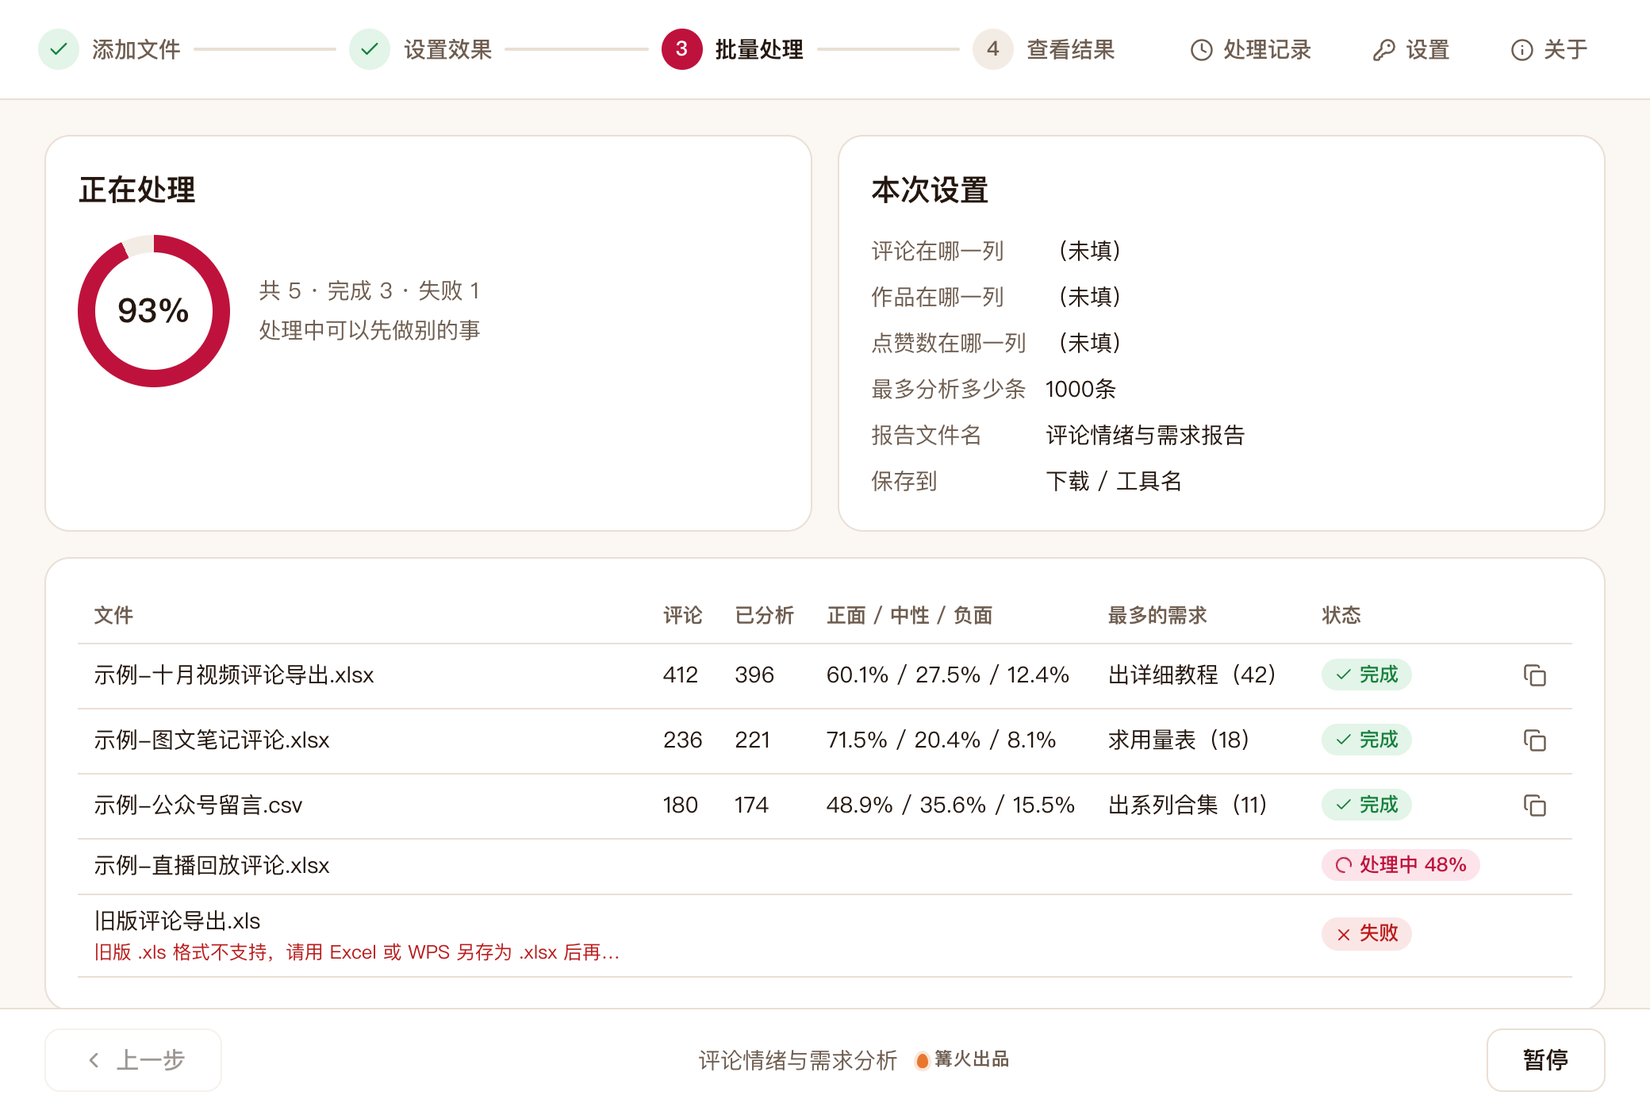
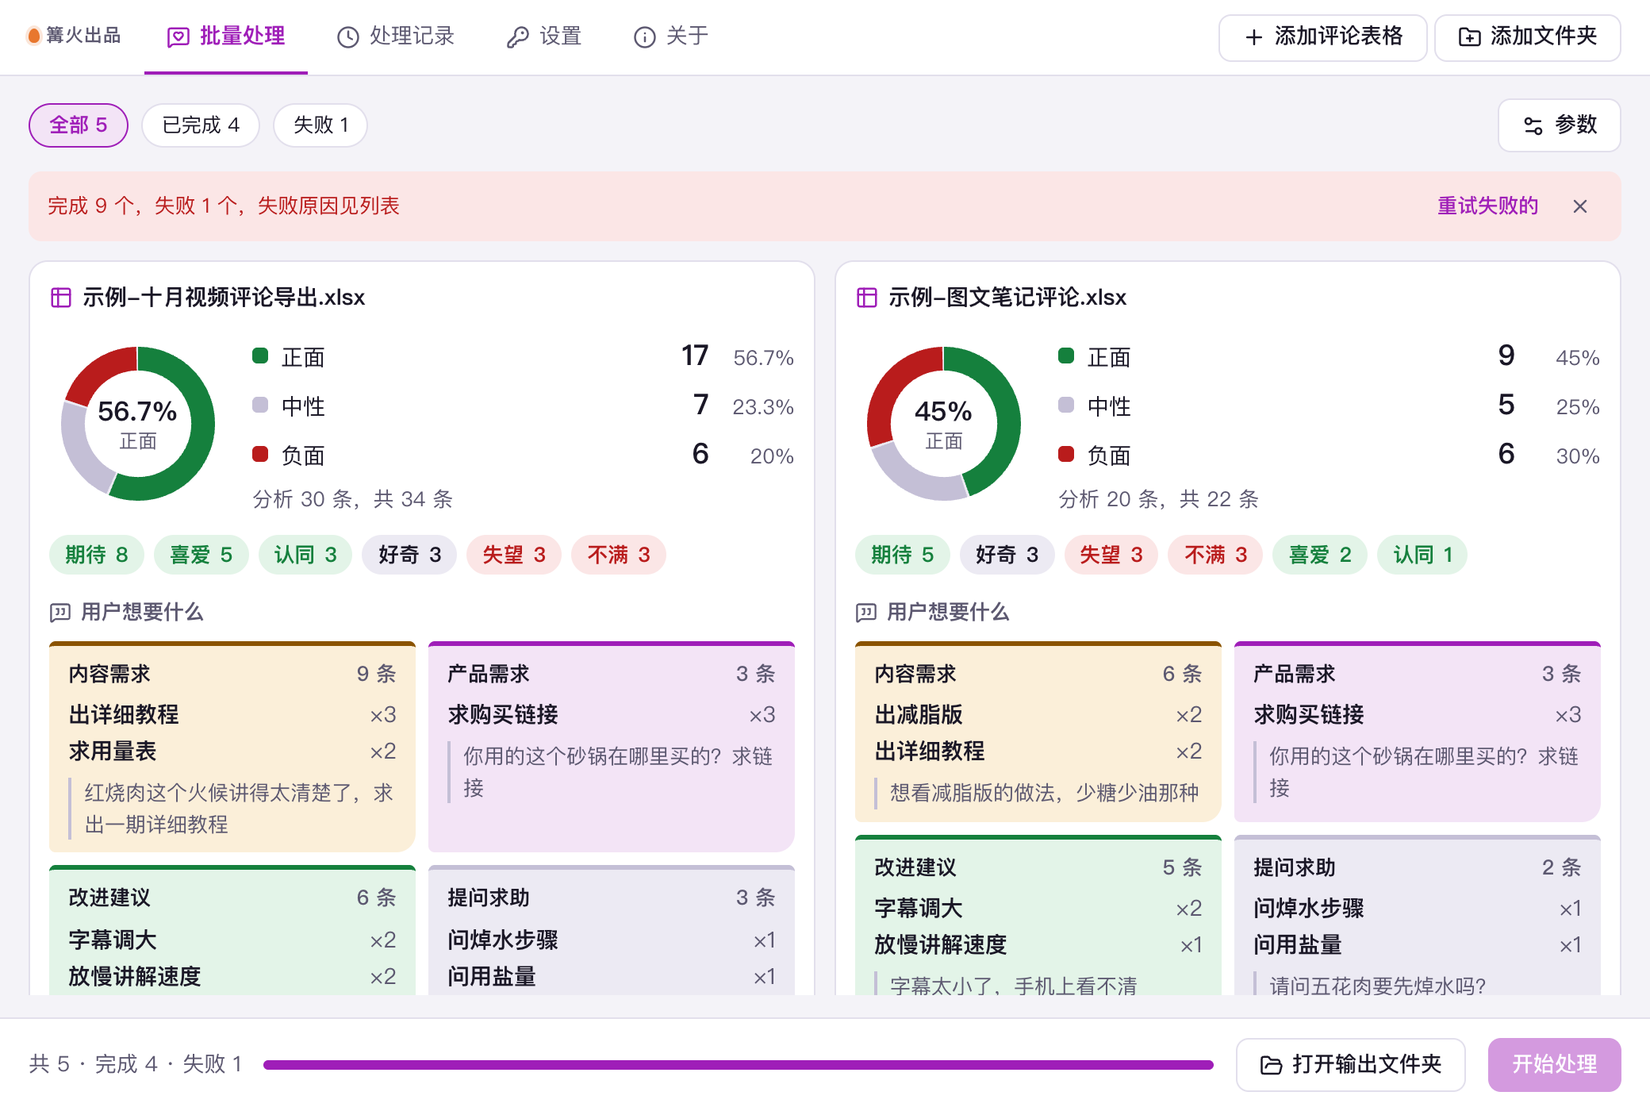
打磨 0.2.0：情绪环与需求便利贴卡片、新空状态、顶部标签卡片布局

diff --git a/src/tool/preview.ts b/src/tool/preview.ts
@@ -1,27 +1,85 @@
 // 截图与预览用的示例数据（不会进入正式运行），内容均为示例
 import type { Row } from '../kit/runner';
+import { pct, summarize, type Detail, type Sentiment } from './core';
+import type { FileData } from './index';
 
-const text1 = `412 条评论，分析 396 条，调用大模型 15 次
-情绪：正面 238（60.1%）、中性 109（27.5%）、负面 49（12.4%）
-主要情绪：喜爱 121、期待 74、认同 63、不满 31
-高频需求：出详细教程（42）、求用量表（27）、字幕调大（19）、出减脂版（15）、求购买链接（12）`;
+// [评论, 点赞, 情绪倾向, 细分情绪, 需求类型, 需求要点]
+type Seed = [string, number, Sentiment, string, string, string];
+const SEEDS: Seed[] = [
+  ['红烧肉这个火候讲得太清楚了，求出一期详细教程', 328, '正面', '期待', '内容需求', '出详细教程'],
+  ['能不能把每一步的用量都做成表格发出来', 241, '正面', '期待', '内容需求', '求用量表'],
+  ['已经照着做了三次，家里人都说好吃', 190, '正面', '喜爱', '无', ''],
+  ['想看减脂版的做法，少糖少油那种', 176, '正面', '期待', '内容需求', '出减脂版'],
+  ['你用的这个砂锅在哪里买的？求链接', 152, '中性', '好奇', '产品需求', '求购买链接'],
+  ['字幕太小了，手机上看不清', 133, '负面', '不满', '改进建议', '字幕调大'],
+  ['步骤讲得太快，暂停好几次才跟上', 118, '负面', '失望', '改进建议', '放慢讲解速度'],
+  ['博主的刀工真好，看着就解压', 97, '正面', '喜爱', '无', ''],
+  ['出一期系列合集吧，每周一道家常菜', 92, '正面', '期待', '内容需求', '出系列合集'],
+  ['请问五花肉要先焯水吗？', 86, '中性', '疑惑', '提问求助', '问焯水步骤'],
+  ['砂锅是哪个牌子的，有没有同款？', 80, '中性', '好奇', '产品需求', '求购买链接'],
+  ['背景音乐太吵了，盖住了讲解', 74, '负面', '不满', '改进建议', '降低背景音乐'],
+  ['感谢分享，终于学会了', 66, '正面', '感谢', '无', ''],
+  ['希望能出一个详细的文字版步骤', 61, '正面', '期待', '内容需求', '出详细教程'],
+  ['用量能写在评论区置顶吗', 58, '中性', '平淡', '内容需求', '求用量表'],
+  ['做出来太咸了，是不是盐放多了', 52, '负面', '失望', '提问求助', '问用盐量'],
+  ['这期的剪辑节奏很舒服', 47, '正面', '认同', '无', ''],
+  ['有减脂期可以吃的版本吗', 44, '正面', '期待', '内容需求', '出减脂版'],
+  ['想要同款砂锅的购买方式', 40, '中性', '好奇', '产品需求', '求购买链接'],
+  ['详细一点的教程什么时候出？', 37, '正面', '期待', '内容需求', '出详细教程'],
+  ['字幕颜色和背景太接近', 33, '负面', '不满', '改进建议', '字幕调大'],
+  ['每次都看到最后才报用量，建议开头就说', 29, '负面', '失望', '改进建议', '开头说用量'],
+  ['太好吃了！已收藏', 25, '正面', '喜爱', '无', ''],
+  ['辣椒可以换成别的吗', 21, '中性', '疑惑', '提问求助', '问替换食材'],
+  ['喜欢这种安静的风格', 18, '正面', '认同', '无', ''],
+  ['看完饿了', 14, '正面', '喜爱', '无', ''],
+  ['博主能不能出个调料清单', 11, '正面', '期待', '内容需求', '求调料清单'],
+  ['视频里的计时器很实用', 9, '正面', '认同', '无', ''],
+  ['讲解语速能再慢一点就好了', 7, '中性', '平淡', '改进建议', '放慢讲解速度'],
+  ['已经二刷了', 5, '正面', '喜爱', '无', ''],
+];
 
-const files: [string, number, Row['status'], Record<string, string | number>?, string?][] = [
-  ['示例-十月视频评论导出.xlsx', 96_000, 'ok', { total: 412, analyzed: 396, senti: '60.1% / 27.5% / 12.4%', top: '出详细教程（42）' }, text1],
-  ['示例-图文笔记评论.xlsx', 58_000, 'ok', { total: 236, analyzed: 221, senti: '71.5% / 20.4% / 8.1%', top: '求用量表（18）' }, '236 条评论，分析 221 条，调用大模型 8 次'],
-  ['示例-公众号留言.csv', 41_000, 'ok', { total: 180, analyzed: 174, senti: '48.9% / 35.6% / 15.5%', top: '出系列合集（11）' }, '180 条评论，分析 174 条，调用大模型 6 次'],
+function details(file: string, from: number, to: number, work: string): Detail[] {
+  return SEEDS.slice(from, to).map(([text, likes, sentiment, emotion, kind, need], i) => ({ id: i, file, line: i + 2, text, work, likes, sentiment, emotion, kind, need }));
+}
+
+function fileData(file: string, total: number, from: number, to: number, work: string): FileData {
+  return { file, total, skipped: total - (to - from), calls: Math.ceil((to - from) / 30), details: details(file, from, to, work) };
+}
+
+const DATA = {
+  a: fileData('示例-十月视频评论导出.xlsx', 34, 0, 30, '红烧肉家常做法'),
+  b: fileData('示例-图文笔记评论.xlsx', 22, 2, 22, '周末早餐合集'),
+  c: fileData('示例-公众号留言.csv', 19, 8, 24, '一周减脂食谱'),
+};
+
+function resultOf(d: FileData) {
+  const s = summarize(d.details);
+  const [pos, neu, neg] = s.sentiments;
+  const text = `${d.total} 条评论，分析 ${d.details.length} 条，调用大模型 ${d.calls} 次`;
+  return {
+    summary: `分析 ${d.details.length} 条，调用 ${d.calls} 次`,
+    row: { total: d.total, analyzed: d.details.length, senti: `${pct(pos.ratio)} / ${pct(neu.ratio)} / ${pct(neg.ratio)}`, top: s.needs[0] ? `${s.needs[0].need}（${s.needs[0].count}）` : '—' },
+    text,
+    data: d,
+  };
+}
+
+const files: [string, number, Row['status'], FileData?, string?][] = [
+  ['示例-十月视频评论导出.xlsx', 96_000, 'ok', DATA.a],
+  ['示例-图文笔记评论.xlsx', 58_000, 'ok', DATA.b],
+  ['示例-公众号留言.csv', 41_000, 'ok', DATA.c],
   ['示例-直播回放评论.xlsx', 33_000, 'run'],
   ['旧版评论导出.xls', 12_000, 'err', undefined, '旧版 .xls 格式不支持，请用 Excel 或 WPS 另存为 .xlsx 后再拖进来'],
 ];
 
 export const rows = (state: string): Row[] =>
-  state === 'empty' ? [] : files.map(([name, size, status, row, text], i) => {
+  state === 'empty' ? [] : files.map(([name, size, status, data, error], i) => {
     const st = state === 'done' && status === 'run' ? 'ok' : status;
     return {
       item: { id: `p${i}`, name, path: `/示例/${name}`, size },
       status: st,
       progress: st === 'run' ? 0.48 : st === 'ok' ? 1 : 0,
-      error: st === 'err' ? text : undefined,
-      result: st === 'ok' ? { summary: `分析 ${row?.analyzed ?? 90} 条`, row: row ?? { total: 96, analyzed: 90, senti: '55% / 30% / 15%', top: '出教程（9）' }, text: text ?? '' } : undefined,
+      error: st === 'err' ? error : undefined,
+      result: st === 'ok' ? resultOf(data ?? DATA.a) : undefined,
     };
   });

diff --git a/src/tool/Insight.tsx b/src/tool/Insight.tsx
@@ -1,0 +1,103 @@
+// 单个评论表的结果：情绪环 + 细分情绪 + 「用户想要什么」便利贴墙（按需求类型分，附点赞最多的原话）；以及还没导入时的空状态示意。
+import { MessageSquareQuote, Settings, Table2, Upload } from 'lucide-react';
+import type { InputItem, ItemResult } from '../kit/types';
+import { NEED_KINDS, pct, summarize, type Summary } from './core';
+import type { FileData } from './index';
+import './tool.css';
+
+const TONE: Record<string, 'pos' | 'neu' | 'neg'> = { 喜爱: 'pos', 认同: 'pos', 感谢: 'pos', 期待: 'pos', 好奇: 'neu', 平淡: 'neu', 疑惑: 'neu', 失望: 'neg', 不满: 'neg', 愤怒: 'neg' };
+const NOTE_TINT = ['t1', 't2', 't3', 't4'];
+
+function Donut({ s }: { s: Summary }) {
+  const r = 44;
+  const c = 2 * Math.PI * r;
+  let acc = 0;
+  const [pos, neu, neg] = s.sentiments;
+  const cls = ['pos', 'neu', 'neg'];
+  return (
+    <svg className="cm-donut" viewBox="0 0 120 120" role="img" aria-label={`正面 ${pct(pos.ratio)}，中性 ${pct(neu.ratio)}，负面 ${pct(neg.ratio)}`}>
+      <circle cx="60" cy="60" r={r} className="cm-ring" />
+      {s.sentiments.map((x, i) => {
+        const len = x.ratio * c;
+        const el = x.count ? <circle key={x.name} cx="60" cy="60" r={r} className={`cm-seg ${cls[i]}`} strokeDasharray={`${Math.max(0, len - 1.5)} ${c}`} strokeDashoffset={-acc} /> : null;
+        acc += len;
+        return el;
+      })}
+      <text x="60" y="58" textAnchor="middle" className="cm-d-big">{pct(pos.ratio)}</text>
+      <text x="60" y="76" textAnchor="middle" className="cm-d-sub">正面</text>
+    </svg>
+  );
+}
+
+export function ResultBody({ item, result }: { item: InputItem; result: ItemResult }) {
+  const d = result.data as FileData | undefined;
+  if (!d?.details.length) return <p className="cm-plain">{result.text || result.summary}</p>;
+  const s = summarize(d.details);
+  const notes = NEED_KINDS.map((k) => ({ kind: k, count: s.kinds.find((x) => x.name === k)?.count ?? 0, needs: s.needs.filter((n) => n.kind === k).slice(0, 2) })).filter((n) => n.needs.length);
+  return (
+    <div className="cm-res">
+      <h3 className="cm-file k-ellipsis" title={item.name}><Table2 size={15} />{item.name}</h3>
+      <div className="cm-top">
+        <Donut s={s} />
+        <ul className="cm-legend">
+          {s.sentiments.map((x, i) => <li key={x.name}><i className={['pos', 'neu', 'neg'][i]} />{x.name}<b className="k-num">{x.count}</b><small className="k-num">{pct(x.ratio)}</small></li>)}
+          <li className="cm-total k-num">分析 {s.analyzed} 条，共 {d.total} 条</li>
+        </ul>
+      </div>
+      {s.emotions.length > 0 && (
+        <ul className="cm-emo" aria-label="细分情绪">
+          {s.emotions.slice(0, 6).map((e) => <li key={e.name} className={TONE[e.name] ?? 'neu'}>{e.name}<b className="k-num">{e.count}</b></li>)}
+        </ul>
+      )}
+      {notes.length > 0 ? (
+        <>
+          <h4 className="cm-h"><MessageSquareQuote size={14} />用户想要什么</h4>
+          <div className="cm-notes">
+            {notes.map((n, i) => (
+              <section key={n.kind} className={`cm-note ${NOTE_TINT[i % 4]}`}>
+                <header>{n.kind}<small className="k-num">{n.count} 条</small></header>
+                <ul>{n.needs.map((g) => <li key={g.need}><b>{g.need}</b><span className="k-num">×{g.count}</span></li>)}</ul>
+                <blockquote>{n.needs[0].example}</blockquote>
+              </section>
+            ))}
+          </div>
+        </>
+      ) : <p className="cm-plain">没有评论提出需求或建议</p>}
+    </div>
+  );
+}
+
+/** 空状态：一张评论表 → 情绪环和需求便利贴 */
+export function Empty({ hover }: { hover: boolean }) {
+  return (
+    <div className="cm-empty">
+      <svg viewBox="0 0 440 150" role="img" aria-label="一张评论表，变成情绪占比环和用户需求便利贴">
+        <g className="cm-sheet">
+          <rect x="8" y="14" width="130" height="118" rx="8" />
+          {[0, 1, 2, 3, 4, 5].map((i) => <g key={i}><rect x="20" y={28 + i * 17} width="26" height="8" rx="4" className="a" /><rect x="54" y={28 + i * 17} width={[64, 52, 70, 44, 60, 38][i]} height="8" rx="4" /></g>)}
+        </g>
+        <path d="M156 74 H196 M187 65 L198 74 L187 83" className="cm-arrow" />
+        <text x="176" y="58" textAnchor="middle" className="cm-cap">逐条判断</text>
+        <g transform="translate(208 22)">
+          <circle cx="42" cy="42" r="34" className="cm-ring" />
+          <circle cx="42" cy="42" r="34" className="cm-seg pos" strokeDasharray="128 214" transform="rotate(-90 42 42)" />
+          <circle cx="42" cy="42" r="34" className="cm-seg neg" strokeDasharray="30 214" strokeDashoffset="-132" transform="rotate(-90 42 42)" />
+          <text x="42" y="47" textAnchor="middle" className="cm-d-big small">情绪</text>
+        </g>
+        <g>
+          <rect x="316" y="16" width="116" height="52" rx="6" className="cm-sn t1" /><rect x="326" y="28" width="60" height="7" rx="3.5" className="ln" /><rect x="326" y="44" width="84" height="6" rx="3" className="ln soft" />
+          <rect x="324" y="78" width="108" height="52" rx="6" className="cm-sn t2" /><rect x="334" y="90" width="52" height="7" rx="3.5" className="ln" /><rect x="334" y="106" width="76" height="6" rx="3" className="ln soft" />
+        </g>
+        <text x="73" y="148" textAnchor="middle" className="cm-cap muted">评论表</text>
+        <text x="374" y="148" textAnchor="middle" className="cm-cap muted">需求便利贴</text>
+      </svg>
+      <ul className="cm-steps">
+        <li><Settings size={16} /><b>先设置</b><span>在「设置」里填自己的大模型接口地址、密钥和模型名</span></li>
+        <li><Table2 size={16} /><b>再导入</b><span>拖入自己后台导出的评论表（xlsx 或 csv），自动认出评论、作品、点赞列</span></li>
+        <li><Upload size={16} /><b>得到</b><span>每个表一张情绪与需求卡片，并导出含运营建议的 Excel 报告</span></li>
+      </ul>
+      <h2 className="cm-title">{hover ? '松开鼠标，开始添加' : '把评论表拖进来'}</h2>
+      <p className="cm-act">只分析你自己导出的表格，不登录平台、不抓取评论</p>
+    </div>
+  );
+}

diff --git a/src/tool/tool.css b/src/tool/tool.css
@@ -1,0 +1,60 @@
+/* 评论情绪与需求分析：情绪环 + 需求便利贴墙；只用 kit.css 变量，适配亮暗色 */
+.k-cards:has(.cm-res) { grid-template-columns: repeat(auto-fill, minmax(min(100%, 410px), 1fr)); align-items: start; }
+.cm-plain { margin: 0; font-size: 14px; color: var(--muted); }
+.cm-res { display: grid; gap: 12px; font-size: 14px; min-width: 0; padding: 4px 4px 2px; }
+.cm-file { margin: 0; display: flex; align-items: center; gap: 6px; font-size: 14px; font-weight: 700; }
+.cm-file svg { color: var(--primary); flex: none; }
+.cm-top { display: flex; align-items: center; gap: 16px; }
+.cm-donut { width: 112px; height: 112px; flex: none; transform: rotate(-90deg); }
+.cm-donut text { transform: rotate(90deg); transform-origin: 60px 60px; }
+.cm-ring { fill: none; stroke: var(--chip); stroke-width: 16; }
+.cm-seg { fill: none; stroke-width: 16; }
+.cm-seg.pos { stroke: var(--ok); } .cm-seg.neu { stroke: var(--line-strong); } .cm-seg.neg { stroke: var(--err); }
+.cm-d-big { fill: var(--ink); font-size: 18px; font-weight: 800; }
+.cm-d-big.small { font-size: 14px; font-weight: 700; }
+.cm-d-sub { fill: var(--muted); font-size: 13px; }
+.cm-legend { list-style: none; margin: 0; padding: 0; display: grid; gap: 4px; flex: 1; min-width: 0; }
+.cm-legend li { display: flex; align-items: baseline; gap: 8px; }
+.cm-legend i { width: 10px; height: 10px; border-radius: 3px; flex: none; align-self: center; }
+.cm-legend i.pos { background: var(--ok); } .cm-legend i.neu { background: var(--line-strong); } .cm-legend i.neg { background: var(--err); }
+.cm-legend b { margin-left: auto; font-size: 18px; }
+.cm-legend small { color: var(--muted); font-size: 13px; min-width: 46px; text-align: right; }
+.cm-legend .cm-total { margin-top: 2px; color: var(--muted); font-size: 13px; }
+.cm-emo { list-style: none; margin: 0; padding: 0; display: flex; flex-wrap: wrap; gap: 6px; }
+.cm-emo li { display: inline-flex; align-items: center; gap: 6px; padding: 3px 10px; border-radius: 999px; font-size: 13px; font-weight: 600; background: var(--chip); color: var(--ink); }
+.cm-emo li.pos { background: var(--ok-soft); color: var(--ok); }
+.cm-emo li.neg { background: var(--err-soft); color: var(--err); }
+.cm-emo b { font-weight: 700; }
+.cm-h { margin: 2px 0 -4px; display: flex; align-items: center; gap: 6px; font-size: 13px; color: var(--muted); font-weight: 600; }
+.cm-notes { display: grid; grid-template-columns: repeat(auto-fit, minmax(170px, 1fr)); gap: 8px; }
+.cm-note { display: grid; gap: 6px; align-content: start; padding: 8px 12px; border-radius: 4px 4px 12px 4px; border-top: 3px solid var(--line-strong); min-width: 0; }
+.cm-note.t1 { background: var(--warn-soft); border-top-color: var(--warn); }
+.cm-note.t2 { background: var(--primary-soft); border-top-color: var(--primary); }
+.cm-note.t3 { background: var(--ok-soft); border-top-color: var(--ok); }
+.cm-note.t4 { background: var(--chip); }
+.cm-note header { display: flex; align-items: baseline; justify-content: space-between; gap: 6px; font-size: 13px; font-weight: 700; }
+.cm-note header small { font-weight: 500; color: var(--muted); font-size: 13px; }
+.cm-note ul { list-style: none; margin: 0; padding: 0; display: grid; gap: 2px; }
+.cm-note li { display: flex; justify-content: space-between; gap: 8px; font-size: 14px; }
+.cm-note li span { color: var(--muted); }
+.cm-note blockquote { margin: 0; padding-left: 8px; border-left: 2px solid var(--line-strong); color: var(--muted); font-size: 13px; line-height: 1.5; display: -webkit-box; -webkit-line-clamp: 2; -webkit-box-orient: vertical; overflow: hidden; }
+
+.cm-empty { display: grid; justify-items: center; gap: 14px; padding: 20px; max-width: 580px; margin: auto; text-align: center; font-size: 14px; }
+.cm-empty > svg { width: 100%; max-width: 500px; height: auto; }
+.cm-sheet rect:first-child { fill: var(--surface); stroke: var(--line-strong); stroke-width: 1.5; }
+.cm-sheet rect:not(:first-child) { fill: var(--line-strong); }
+.cm-sheet rect.a { fill: var(--primary); opacity: .6; }
+.cm-arrow { fill: none; stroke: var(--primary); stroke-width: 3; stroke-linecap: round; stroke-linejoin: round; }
+.cm-cap { fill: var(--primary); font-size: 13px; font-weight: 700; }
+.cm-cap.muted { fill: var(--muted); font-weight: 600; }
+.cm-empty .cm-ring { stroke-width: 14; }
+.cm-empty .cm-seg { stroke-width: 14; }
+.cm-sn.t1 { fill: var(--warn-soft); stroke: var(--warn); } .cm-sn.t2 { fill: var(--primary-soft); stroke: var(--primary); }
+.cm-sn { stroke-width: 1.5; }
+.cm-empty .ln { fill: var(--ink); opacity: .55; } .cm-empty .ln.soft { opacity: .25; }
+.cm-steps { list-style: none; margin: 0; padding: 0; display: grid; gap: 6px; width: 100%; max-width: 500px; text-align: left; }
+.cm-steps li { display: grid; grid-template-columns: 20px 52px 1fr; align-items: center; gap: 8px; padding: 7px 12px; border-radius: min(var(--radius), 10px); background: var(--chip); }
+.cm-steps svg { color: var(--primary); }
+.cm-steps span { color: var(--muted); font-size: 13px; }
+.cm-title { margin: 4px 0 0; font-size: 20px; }
+.cm-act { margin: 0; color: var(--muted); font-size: 13px; }

diff --git a/src/tool/index.ts b/src/tool/index.ts
@@ -7,6 +7,7 @@ import {
   reportSheets, summarize, type Comment, type Detail, type Judged, type Suggestion,
 } from './core';
 import { readSheets, writeXlsx } from './xlsx';
+import { Empty, ResultBody } from './Insight';
 
 const COMMENT_KEYWORDS = [/^(评论|留言|回复)(内容)?$/, /评论内容|留言内容|评论文本/, /评论|留言|弹幕/, /^内容$/, /comment|content|text/i];
 const WORK_KEYWORDS = [/^(作品|视频|笔记|文章)(标题|名称)?$/, /作品|视频标题|笔记标题|文章标题/, /^标题$/, /title/i];
@@ -50,9 +51,11 @@ const tool: BatchTool = {
   category: '内容生产',
   type: 'text',
   mode: 'batch',
-  resultView: 'table',
+  resultView: 'cards',
   columns: [['total', '评论'], ['analyzed', '已分析'], ['senti', '正面 / 中性 / 负面'], ['top', '最多的需求']],
   needsLLM: true,
+  Empty,
+  ResultBody,
   concurrency: 1,
   accept: { label: '评论表格', extensions: ['xlsx', 'csv', 'xls'] },
   params: [

diff --git a/src/tool/core.ts b/src/tool/core.ts
@@ -49,6 +49,7 @@ export function parseCount(v: Cell): number | null {
   return Math.round(Number(m[1]) * (m[2] ? 10000 : 1));
 }
 
+// check-zh: 忽略（写给大模型的提示词，里面的英文是 JSON 字段名，必须保留）
 export const SYSTEM_PROMPT = `你是新媒体运营分析师，分析账号主自己作品下的用户评论。对每条评论判断：
 1. sentiment 情绪倾向：只能是「正面」「中性」「负面」之一。单纯提问、陈述算中性；阴阳怪气、反讽算负面。
 2. emotion 细分情绪：只能从「${EMOTIONS.join('、')}」里选一个。

diff --git a/README.md b/README.md
@@ -33,7 +33,8 @@
    - 细分情绪：喜爱、认同、感谢、期待、好奇、平淡、疑惑、失望、不满、愤怒；
    - 需求类型：内容需求（想看什么）、产品需求（想买什么）、改进建议、提问求助，没有就记「无」；
    - 需求要点：用一句短语概括，相同的需求会合并计数。
-6. 全部处理完自动再调用 1 次大模型生成选题与运营建议，并导出 Excel 报告（多个文件合并成一份）：
+6. 每个评论表处理完，结果区会出现一张「情绪与需求卡片」：情绪环（正面 / 中性 / 负面占比）、细分情绪标签，以及按需求类型（内容需求、产品需求、改进建议、提问求助）分开的「用户想要什么」便利贴，每张写出提得最多的需求和点赞最多的一条原话。
+7. 全部处理完自动再调用 1 次大模型生成选题与运营建议，并导出 Excel 报告（多个文件合并成一份）：
    - 汇总：情绪占比、细分情绪、需求类型、运营建议；
    - 高频需求：前 20 个需求，按提到次数排序，次数相同按点赞合计排序，附点赞最多的一条评论；
    - 按作品：每个作品的正面 / 中性 / 负面条数和负面占比（表里有作品列时才有）；

diff --git a/CHANGELOG.md b/CHANGELOG.md
@@ -1,5 +1,12 @@
 # 更新记录
 
+## 0.2.0
+
+- 换成顶部标签 + 卡片布局，主色改为紫红；每个评论表的结果是一张卡片，不再是表格。
+- 新结果展示：情绪环、细分情绪标签，以及按需求类型分的「用户想要什么」便利贴（附点赞最多的原话）。
+- 新空状态：画出「评论表 → 情绪环 + 需求便利贴」，并写明先设置、再导入、得到什么。
+- 预览示例数据改为由示例评论实时统计。重写上架文案。
+
 ## 0.1.0
 
 - 首个版本。
